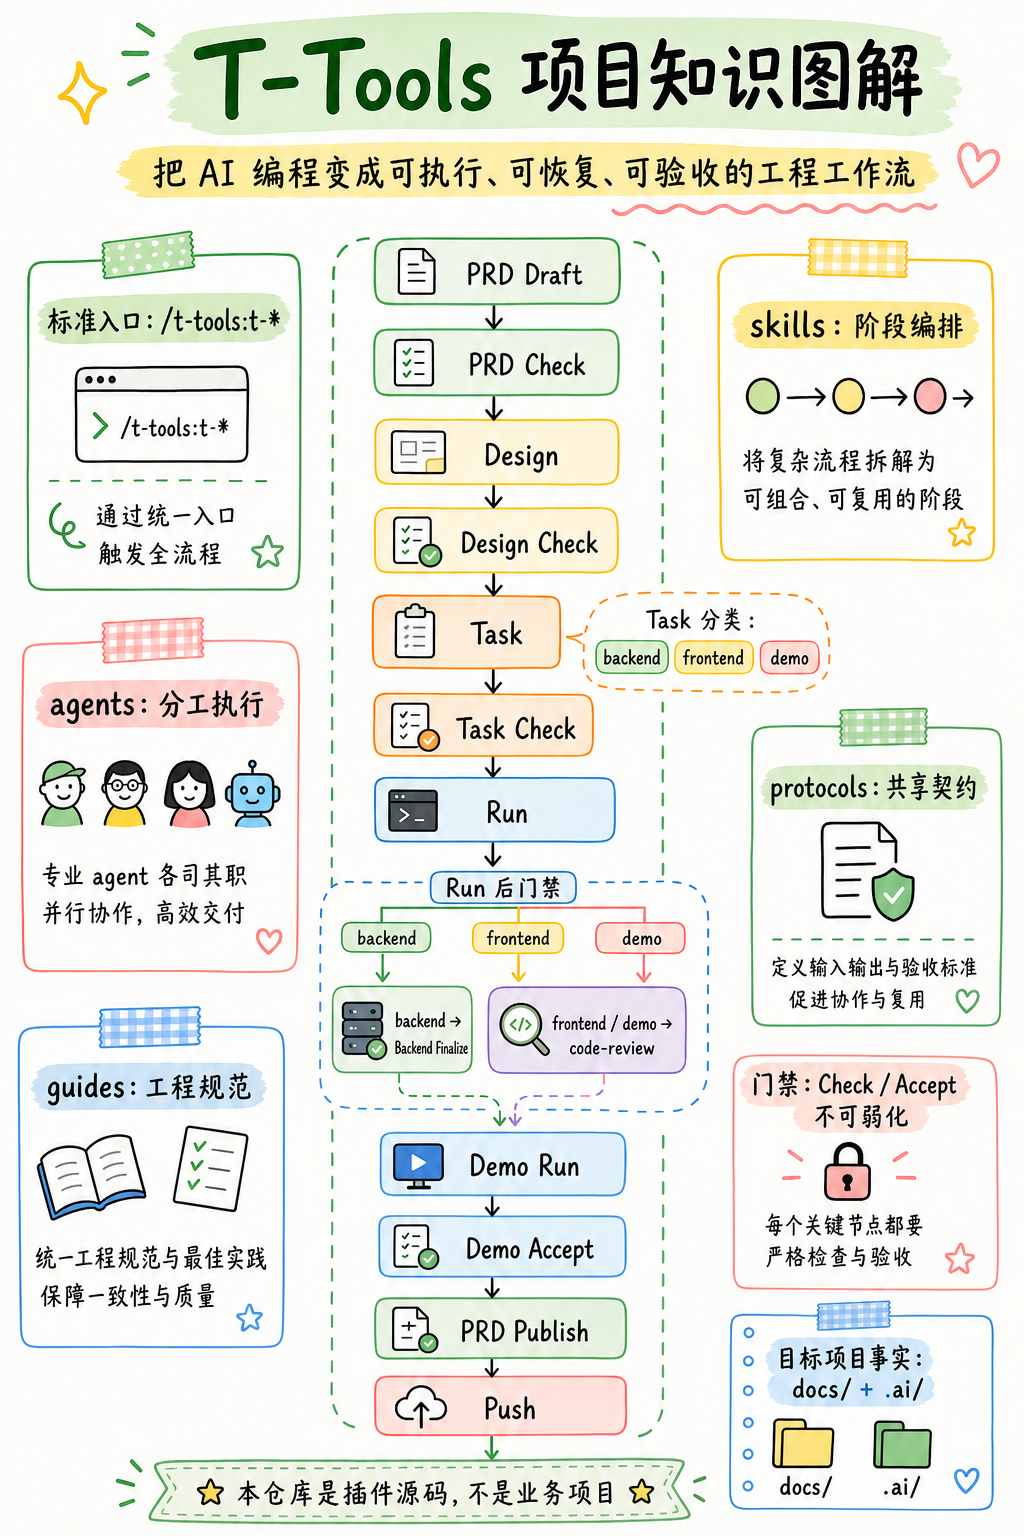
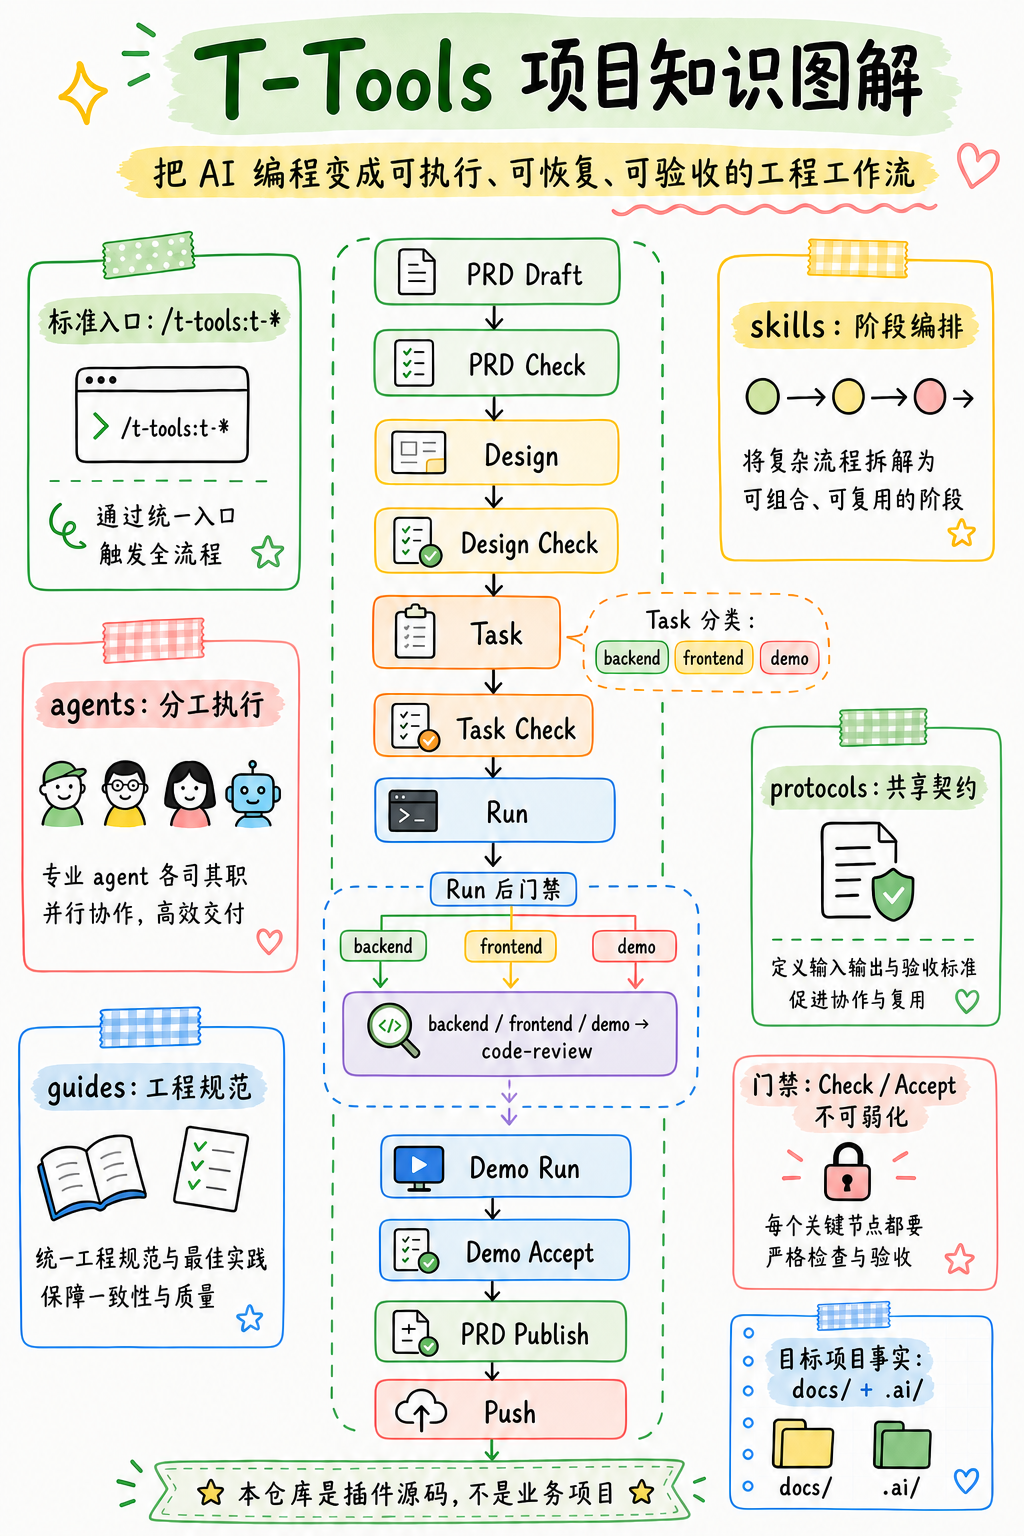
reduce token cost

diff --git a/skills/t-task/SKILL.md b/skills/t-task/SKILL.md
@@ -44,13 +44,11 @@ allowed-tools:
 - `.ai/task/[feature]/<phase>/<slot>.md` — Slot manifest（导航与依赖）
 - `.ai/task/[feature]/<phase>/<slot>/<ITEM-ID>-*.md` — 可执行的 item 文件
   - 每个 item 包含：id, title, agent, scope, inputs, steps, expected_files, validation, depends_on, handoff_summary, completion_criteria
-- `.ai/task/[feature]/backend/finalize.md` — backend 阶段收口流程（仅 backend）
 
 ## Purpose
 - 从 `.ai/design/[feature].md` 生成 `.ai/task/[feature]/` 任务目录和 `.state.json`。
 - 固定使用 `phase -> slot -> item` 模型。
 - 生成串行执行的 item 文件，而不是把 manifest 当执行输入。
-- backend 阶段额外生成 `finalize.md`，由 `/t-backend-finalize` 独立执行。
 
 ## Args
 | 参数 | 说明 |
@@ -82,7 +80,6 @@ backend 阶段：
 ├── accept/
 │   ├── BE-A01-*.md
 │   └── ...
-└── finalize.md
 ```
 
 frontend 阶段：
@@ -139,13 +136,14 @@ demo 阶段：
    - prompt 必须引用 `${CLAUDE_PLUGIN_ROOT}/protocols/task-check-rubric.md`，要求 agent 在返回前自检 P0/P1 规则。
    - prompt 必须引用 `${CLAUDE_PLUGIN_ROOT}/protocols/task-phase-execution.md`，要求 item 字段、拆分原则、测试集中执行和 backend/test item 类型符合该协议。
    - backend/test slot prompt 必须额外要求读取 `${CLAUDE_PLUGIN_ROOT}/guides/backend/testing.md`。
+   - backend/accept slot prompt 必须额外要求覆盖 OpenAPI 导出、`frontend/api.json` 校验和前端 API 客户端生成验收。
 - 每个 slot agent 必须返回：
    - slot manifest 正文
    - item 文件集合
    - item DAG
    - slot completion criteria
    - handoff summary
-   - self_check：对必填字段、DAG、拆分阈值、backend test item 类型和 finalize 规则的自检结果
+   - self_check：对必填字段、DAG、拆分阈值和 backend test item 类型的自检结果
 - 主流程在每个 slot 返回后先执行写入前硬校验：
    - item 必填字段齐备
    - item ID 唯一，依赖存在且无环
@@ -212,23 +210,13 @@ item 字段、backend/test item 类型、测试集中执行规则、拆分原则
 
 本 skill 只负责把 agent 返回结果校验并写入 `.ai/task/[feature]/`，不在这里维护第二套 item 结构或拆分阈值。
 
-## Backend Finalize
-- backend 阶段必须额外生成 `<phase>/finalize.md`。
-- `finalize.md` 必须明确：
-  - `/code-review` 目标范围
-  - `cargo clippy --fix --allow-dirty --allow-staged --all-targets --all-features`
-  - `cargo fmt --all`
-  - OpenAPI 导出与前端 API 生成
-  - 失败后从失败步骤恢复
-- `finalize.md` 不拆 item，不由 `/t-run` 执行。
-
 ## Forbidden
 - 生成或依赖 `agents` 根字段。
 - 把 `dev.md`、`test.md`、`accept.md` 当作 `/t-run` 的直接执行输入。
 - 在单个 item 中塞入跨多模块、多天或不可恢复的大任务。
 - 当前阶段 slot 并行生成；slot 必须按依赖串行。
 - 未写入上游 manifest 和 item 文件就调用下游 slot agent。
-- backend 阶段遗漏 `finalize.md`。
+- backend 阶段生成独立收口文件或依赖已移除的后端收口命令。
 - 生成缺少 `test_item_type: authoring|runner` 的 backend/test item。
 - 生成 `agent: backend-test-run` 的 item。
 
@@ -255,7 +243,6 @@ item 字段、backend/test item 类型、测试集中执行规则、拆分原则
 - dev.md + dev/*.md
 - test.md + test/*.md
 - accept.md + accept/*.md
-- finalize.md
 
 状态已更新：phase=backend, phases.backend.generated_at=<timestamp>
 下一步: /t-task-check <feature> --phase backend

diff --git a/protocols/task-check-rubric.md b/protocols/task-check-rubric.md
@@ -34,7 +34,6 @@
 - demo 含 `dev/accept`
 - 每个 slot 含 `status/manifest/items`
 - 每个 item 含 `status/file/agent/depends_on`
-- backend 含 `tasks.backend.finalize.file` 和 `tasks.backend.finalize.status`
 
 缺失或非法 => `TASK_SCHEMA_INVALID`
 
@@ -110,7 +109,7 @@ agent 评审边界：
 | 维度 | 分值 | 说明 |
 |---|---:|---|
 | 状态文件结构 | 15 | `.state.json` 的 `phase/phases/tasks/slot/items` 结构完整性 |
-| 文档完整性 | 15 | `index.md`、slot manifest、item 文件和 backend `finalize.md` |
+| 文档完整性 | 15 | `index.md`、slot manifest 和 item 文件 |
 | Item 可执行性 | 20 | item 足够小、步骤明确、验证命令明确、边界清晰 |
 | 内容一致性 | 20 | 与设计文档、PRD、用户故事、技术预研、仓库路径和术语一致 |
 | 依赖与恢复 | 15 | item DAG 合法、handoff 可追溯、失败可恢复 |
@@ -122,7 +121,7 @@ agent 评审边界：
 ### P0
 
 - `.state.json` 缺失或格式错误
-- 缺少核心 phase/slot/item/finalize 结构
+- 缺少核心 phase/slot/item 结构
 - 阶段目录、manifest、item 文件缺失
 - item 依赖不存在或成环
 - manifest 未覆盖全部 items
@@ -147,8 +146,6 @@ agent 评审边界：
 - 大范围重构缺少旧代码清理清单，清单没有说明删除边界与残留搜索方式，或未按 `${CLAUDE_PLUGIN_ROOT}/protocols/task-phase-execution.md` 的“先删除旧实现再改写新结构”顺序组织
 - 没有真实兼容约束（按 `${CLAUDE_PLUGIN_ROOT}/protocols/task-phase-execution.md` 的兼容性来源判定：PRD、设计文档、外部 API 契约、数据保留、跨版本部署或用户显式要求均不成立）时，任务计划仍以兼容层、adapter、bridge、fallback、双路径分支或“以后再删”作为主路径
 - 下游 item 缺少 handoff 追溯
-- backend 缺少 `awaiting_finalize` 收口语义
-- `finalize.md` 缺少必要收口/重试说明
 - 设计文档与任务文档严重不一致但暂不直接阻塞执行
 
 ### P2
@@ -160,18 +157,13 @@ agent 评审边界：
 
 ## Report Requirements
 
-报告必须包含：
+报告只保留：
 
 - 总分、等级、是否可进入 `/t-run`
-- 状态文件验证结果
-- 阶段依赖验证结果
-- item DAG 验证结果
-- 每个维度得分与扣分证据
-- 实际调用的 agent 集合
-- `confirmed / disputed / assumption` 分类摘要
-- P0/P1/P2 问题列表
-- 明确修复步骤
-- 已排除的误报/争议项（如有）
+- 门禁摘要：状态文件、阶段依赖、item DAG、manifest/items、agent 集合
+- 扣分维度摘要
+- P0/P1/P2 单行清单：`级别 | 文件 | 问题 | 修复`
+- 证据路径或命令摘要；不得复制完整 agent 输出或命令日志
 
 等级建议：
 

diff --git a/skills/t-run/SKILL.md b/skills/t-run/SKILL.md
@@ -50,8 +50,7 @@ allowed-tools:
 - 按当前 phase 的 item DAG 选择可执行 item，但始终串行调度单个 sub agent。
 - `/t-run` 的执行单元、slot 顺序、失败处理、所需上下文统一参考 `${CLAUDE_PLUGIN_ROOT}/protocols/task-phase-execution.md`。
 - `index.md` 和 slot manifest 只作为上下文和导航，不作为直接执行输入。
-- backend 的 `finalize.md` 不由 `/t-run` 执行。
-- backend `accept` slot 完成后，`/t-run` 必须停止并提示执行 `/t-backend-finalize [feature]`；不得自动执行 `finalize.md`。
+- backend 的 OpenAPI 导出与前端 API 生成验收由 `backend-accept` 负责。
 
 ## Args
 | 参数 | 说明 |
@@ -69,7 +68,6 @@ allowed-tools:
   - `index.md`
   - 对应 slot manifest：backend/frontend/miniapp 为 `dev.md`, `test.md`, `accept.md`；demo 为 `dev.md`, `accept.md`
   - 对应 item 目录和 item 文件
-  - backend 阶段额外要求 `finalize.md`
 
 ## Shared Contracts
 
@@ -130,7 +128,7 @@ backend/test 特例：
    - 停止依赖该 item 的后续执行
 - 每个 item 完成或失败后重新聚合 slot 和 phase 状态。
 - 若当前 item 成功且仍有可执行 item，则返回 Item Selection，继续串行选择下一个 item。
-- backend 阶段在 `accept` slot 全部 completed 后停止，并提示执行 `/t-backend-finalize [feature]`。
+- backend 阶段在 `accept` slot 全部 completed 后聚合为 completed。
 
 ## Forbidden
 - 直接执行 `dev.md`、`test.md`、`accept.md`。
@@ -141,7 +139,6 @@ backend/test 特例：
 - 一次启动多个 sub agents 或批量下发多个 item。
 - 当前 item 未完成并写回状态时，预取、提前执行或跨 slot 执行其他 item。
 - 对 `backend-test` 直接下发"先跑全量 `uv run scripts/backend-test.py --`"而不做变更分析。
-- backend `accept` 完成后，不得自动执行 `finalize.md`。
 
 ## Failure
 - 状态文件缺失/损坏：终止并提示先运行 `/t-task [feature] --phase [phase]`。

diff --git a/guides/backend/quality.md b/guides/backend/quality.md
@@ -23,6 +23,8 @@
 - 环境可启动
 - 健康检查通过（以目标项目健康检查契约为准）
 - OpenAPI 关键注解完整（无阻塞缺失）
+- OpenAPI 可成功导出，`frontend/api.json` 为有效 JSON
+- 前端 API 客户端可成功生成
 
 ### P1（应通过）
 - Clippy 无严重警告
@@ -45,9 +47,8 @@ npx jscpd --pattern "**/*.rs" --reporters console backend
 规则：
 - `backend-accept` 默认先做改动分析，再执行定向 `uv run scripts/backend-test.py -- <targeted filter>`；不得默认直接跑全量 `uv run scripts/backend-test.py --`。
 - 只有在用户明确要求全量测试，或影响范围无法可靠收敛时，`backend-accept` 才允许升级到全量测试；一旦升级，则全量结果也必须通过。
-- `backend-accept` 完成后，必须继续执行 backend finalize 收口。
-- 收口入口固定为 `/t-backend-finalize [feature]`，负责 `/code-review -> cargo clippy --fix -> cargo fmt --all -> OpenAPI 导出 -> 前端 API 生成`。
-- 若 OpenAPI 导出或前端 API 生成在收口阶段失败，修复后至少重新执行 `cargo clippy --fix -> cargo fmt --all -> OpenAPI 导出 -> 前端 API 生成`。
+- OpenAPI 导出与前端 API 生成属于 `backend-accept` 的 P0 验收项；失败时拒绝验收。
+- 若 OpenAPI 导出或前端 API 生成失败，修复后至少重新执行受影响测试、OpenAPI 导出与前端 API 生成。
 
 ## 5. 环境验证（MANDATORY）
 
@@ -107,12 +108,11 @@ cd frontend && npm run generate-api
 - 只有 P0 失败才能触发 `REJECTED`。
 
 ### 报告最小字段
-- 测试结果（总数/通过/失败）
-- 构建与静态检查结果
-- 重复代码检查结果（命令、重复率/重复块数量、关键文件位置；未执行时必须说明原因）
-- 环境验证结果
-- OpenAPI 检查结果
-- 阻塞问题与修复建议
+- 结论
+- 门禁摘要
+- P0/P1/P2 单行清单
+- 证据路径
+- Handoff
 
 ## 8. 禁止行为
 

diff --git a/protocols/task-state-contract.md b/protocols/task-state-contract.md
@@ -30,10 +30,6 @@
         "status": "pending",
         "manifest": ".ai/task/sample-feature/backend/accept.md",
         "items": {}
-      },
-      "finalize": {
-        "status": "pending",
-        "file": ".ai/task/sample-feature/backend/finalize.md"
       }
     }
   },
@@ -64,7 +60,7 @@
 - `phase` 只允许 supported phases：`backend | frontend | miniapp | demo`。
 - `phases` / `tasks` 只要求包含当前任务的 `active_phases`；未启用 miniapp 的项目不得强制要求存在 `phases.miniapp` 或 `tasks.miniapp`。
 - `miniapp` 启用规则统一参考 `${CLAUDE_PLUGIN_ROOT}/protocols/task-phase-execution.md`。
-- `status` 只允许 `pending | running | failed | completed | awaiting_finalize | skipped | generated`。
+- `status` 只允许 `pending | running | failed | completed | skipped | generated`。
   - `skipped`：阶段不适用于当前任务（如 backend 已实现，无需变更）
   - `generated`：任务规划已生成，尚未开始执行
 
@@ -84,8 +80,6 @@ phase 状态：
 - 任一 slot `running` => phase `running`
 - 任一 slot `failed` => phase `failed`
 - 全部 slots `skipped` => phase `skipped`
-- backend 的 `finalize` 为 `completed`，且 `dev/test/accept` 均为 `completed` 或 `skipped` => `completed`
-- backend 的 `dev/test/accept` 均为 `completed` 或 `skipped`，至少一个为 `completed`，且 `finalize` 未 `completed` => `awaiting_finalize`
-- frontend/miniapp/demo 全部 slots 均为 `completed` 或 `skipped`，且至少一个 slot `completed` => `completed`
+- backend/frontend/miniapp/demo 全部 slots 均为 `completed` 或 `skipped`，且至少一个 slot `completed` => `completed`
 - 全部 slots 均为 `generated` 或 `skipped`，且至少一个 slot `generated` => phase `generated`
 - 其他情况 => `pending`

diff --git a/agents/backend-accept.md b/agents/backend-accept.md
@@ -27,8 +27,9 @@ tools:
 
 - 报告：`.ai/quality/backend-accept-[feature]-[YYYYMMDD-HHMMSS].md`
 - 验收结论：`ACCEPTED` / `REJECTED` / `ACCEPTED_WITH_IMPROVEMENTS`
-- 重复代码检查结果：必须写入报告，包含执行命令、重复率/重复块数量、关键文件位置；未执行时必须说明原因
-- handoff：明确是否可进入 `/t-backend-finalize [feature]`
+- 短报告：门禁摘要、P0/P1/P2 单行清单、证据路径
+- 重复代码检查：1 行摘要；未执行时说明原因
+- handoff：明确 backend 阶段是否可进入后续 frontend/demo 阶段
 
 ## 执行流程
 
@@ -52,11 +53,14 @@ tools:
 - 检查 utoipa 注解
 - 检查 ToSchema
 - 检查 ApiDoc 注册和导出产物
+- 执行 OpenAPI 导出，并验证 `frontend/api.json` 有效
+- 执行前端 API 客户端生成命令，并记录生成结果
+- 允许运行目标项目的 OpenAPI/API client 生成命令来取得验收证据；除此之外不得修改业务代码
 
 ### 步骤 4：输出报告
 - 输出到 `.ai/quality/backend-accept-[feature]-[YYYYMMDD-HHMMSS].md`
 - 给出状态：`ACCEPTED` / `REJECTED` / `ACCEPTED_WITH_IMPROVEMENTS`
-- 明确 handoff 给 `/t-backend-finalize [feature]` 做 `/code-review`、clippy、fmt、OpenAPI 导出与前端 API 生成收口
+- 明确 OpenAPI 导出、前端 API 生成、测试和环境验证是否均已通过，并给出下一阶段 handoff
 
 ## 规范来源
 

diff --git a/skills/t-demo-accept/SKILL.md b/skills/t-demo-accept/SKILL.md
@@ -65,15 +65,15 @@ wc -l [测试文件路径]
 - 生成报告。
 - 单文件：`.ai/quality/demo-accept-[name]-[YYYYMMDD-HHMMSS].md`
 - 批量：同时生成汇总 `.ai/quality/demo-accept-summary-[YYYYMMDD-HHMMSS].md`
-- 报告必须包含重复代码检查结果：执行命令、重复率/重复块数量、关键文件位置；未执行时必须说明原因。
+- 短报告：结论、门禁摘要、P0/P1/P2 单行清单、日志路径。
 
 ## 输出格式
 每个文件产出：
 - 状态：`ACCEPTED` / `ACCEPTED_WITH_IMPROVEMENTS` / `REJECTED`
 - 分数：0-100
-- 问题清单：P0 / P1 / P2
-- 证据：失败命令、日志路径、相关代码位置
-- 重复代码检查结果：命令、重复率/重复块数量、关键文件位置或未执行原因
+- 门禁摘要：用户故事映射、编译、执行、隔离/日志、重复代码
+- 问题清单：P0 / P1 / P2，每条单行
+- 证据路径
 
 日志路径统一使用仓库相对路径：
 - `log/backend-demo.log`

diff --git a/guides/backend/validation.md b/guides/backend/validation.md
@@ -27,7 +27,7 @@ cd backend && cargo check --package <api-package>
 - 这是任务完成的**必要条件**，不是可选步骤
 - `<api-package>` 应替换为目标仓库实际对外 API crate/package 名称；优先从 `backend/` 下的 `Cargo.toml` 或现有脚本确认
 
-### 2. 最终收口（backend accept 后必须执行）
+### 2. 代码质量收口（推荐）
 
 ```bash
 /code-review
@@ -36,9 +36,8 @@ cd backend && cargo fmt --all
 ```
 
 规则：
-- 这一步对应 `/t-backend-finalize [feature]`。
 - 后端测试执行与补测证据属于 backend/test、backend-accept 或显式测试命令。
-- 同一 feature 再次执行时，默认从失败步骤恢复，无需额外参数。
+- OpenAPI 导出与前端 API 生成验收属于 backend-accept。
 
 ### 3. 格式化检查（可选但推荐）
 

diff --git a/AGENTS.md b/AGENTS.md
@@ -5,7 +5,7 @@
 ## 工作定位
 
 - 面向目标项目使用时，标准入口是 `/t-tools:t-*` 命令，而不是让模型自由选择流程。
-- 插件主链路是 `PRD Draft -> PRD Check -> Design -> Design Check -> Task -> Task Check -> Run -> Backend Finalize -> Demo Run -> Demo Accept -> PRD Publish -> Release`。
+- 插件主链路是 `PRD Draft -> PRD Check -> Design -> Design Check -> Task -> Task Check -> Run -> Demo Run -> Demo Accept -> PRD Publish -> Release`。
 - 这个 plugin 的核心价值是统筹 AI 编程：把需求、设计、任务、实现、测试、验收和 Demo 交付拆成有边界、有状态、有门禁的阶段。
 - 不要把本仓库当成目标项目来生成业务代码。目标项目运行时事实主要落在目标项目的 `docs/` 和 `.ai/` 中。
 

diff --git a/guides/demo/quality.md b/guides/demo/quality.md
@@ -97,16 +97,15 @@ npx jscpd --pattern "**/*.ts" --reporters console demo/e2e
 输出文件：`.ai/quality/demo-accept-[feature]-[date].md`
 
 最小字段：
-- 用户故事映射与场景覆盖
-- 执行结果（总数/通过/失败/超时）
-- 质量检查（隔离、日志、延迟、选择器、复杂度、重复代码检查结果）
-- 重复代码检查结果需包含命令、重复率/重复块数量、关键文件位置；未执行时必须说明原因
-- 验收结论与修复项
+- 结论
+- 门禁摘要
+- P0/P1/P2 单行清单
+- 日志路径
 
 批量验收需额外输出汇总报告：
 - 总测试数
 - ACCEPTED / ACCEPTED_WITH_IMPROVEMENTS / REJECTED 统计
-- 失败测试与修复建议
+- 失败测试单行清单
 
 ## 6. 禁止行为
 

diff --git a/human/structure.en.md b/human/structure.en.md
@@ -41,7 +41,6 @@ A skill is an imperative workflow entry point, organized by workflow stage:
 
 - `t-run`: drives implementation and testing by phase.
 - `code-review`: code review (shared across frontend, backend, and demo).
-- `t-backend-finalize`: backend closure review (backend only).
 - `t-backend-test-run`: internal execution skill, reused by workflows.
 
 **Demo:**
@@ -169,7 +168,6 @@ flowchart TD
 
     subgraph Dev["Development"]
         E1["t-run"] --> E2["code-review"]
-        E2 --> E3["t-backend-finalize (backend only)"]
     end
 
     subgraph Demo["Demo"]
@@ -185,7 +183,7 @@ flowchart TD
     B2 -->|pass| C1
     C2 -->|pass| D1
     D2 -->|pass| E1
-    E3 --> F1
+    E2 --> F1
     F2 -->|pass| G1
 ```
 

diff --git a/agents/demo-accept.md b/agents/demo-accept.md
@@ -29,7 +29,8 @@ tools:
 - 单文件报告：`.ai/quality/demo-accept-[feature]-[YYYYMMDD-HHMMSS].md`
 - 批量汇总：`.ai/quality/demo-accept-summary-[YYYYMMDD-HHMMSS].md`
 - 验收结论：`ACCEPTED` / `REJECTED` / `ACCEPTED_WITH_IMPROVEMENTS`
-- 重复代码检查结果：必须写入单文件报告和批量汇总报告，包含执行命令、重复率/重复块数量、关键文件位置；未执行时必须说明原因
+- 短报告：门禁摘要、P0/P1/P2 单行清单、日志路径
+- 重复代码检查：1 行摘要；未执行时说明原因
 - 每条问题必须附带文件、日志或命令证据
 
 ## 执行流程
